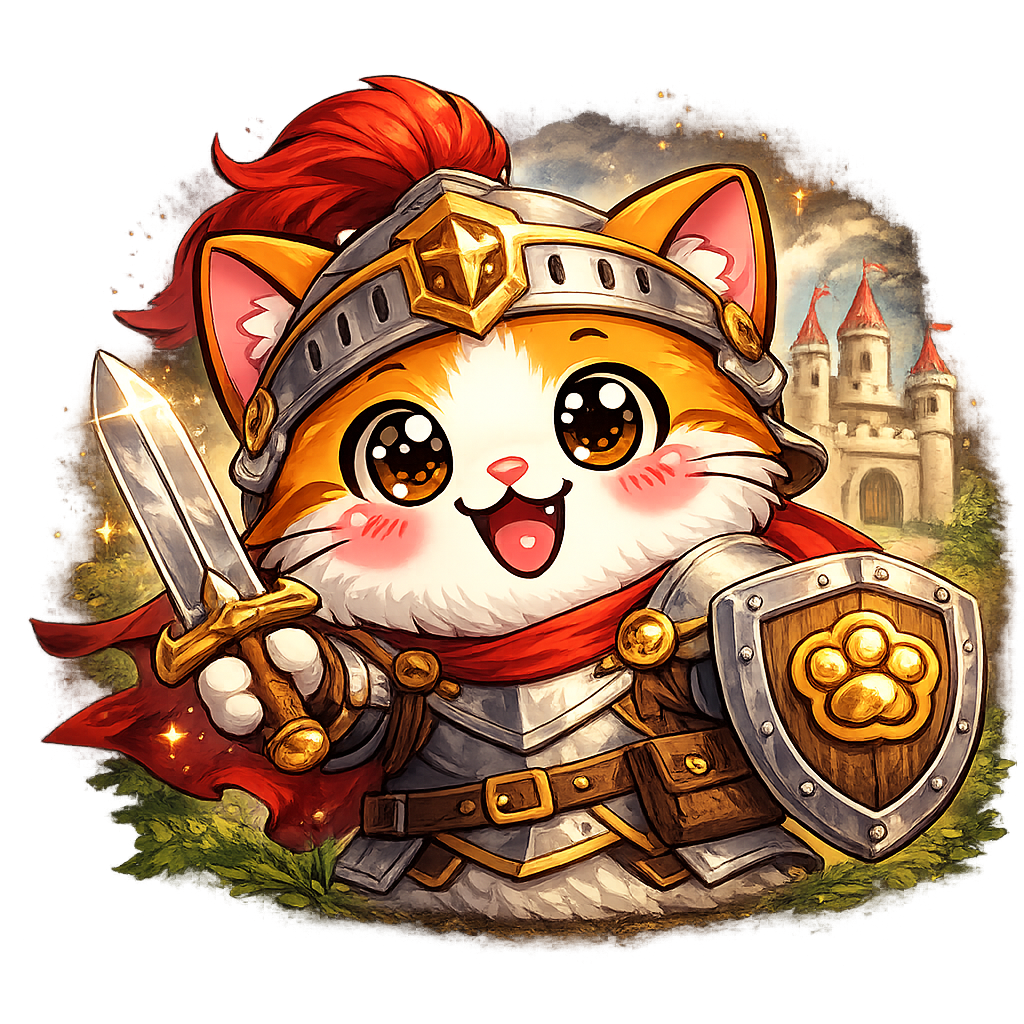
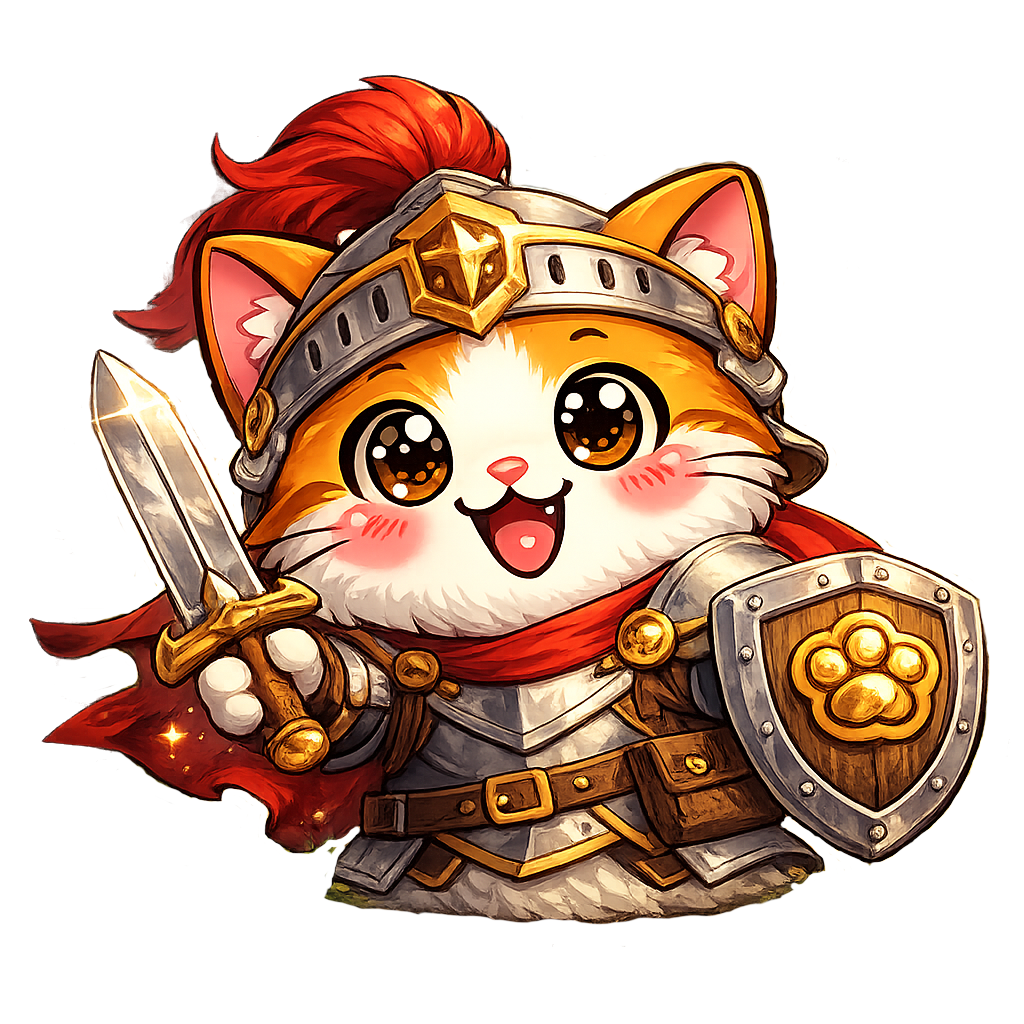
Update locked shop visuals and apply latest tower image

diff --git a/js/game.js b/js/game.js
@@ -433,6 +433,19 @@ function renderBuildings() {
     const afford = G.cookies >= cost;
     const cps    = b.baseCps * G.bld[i].mult;
     const totalC = cps * qty;
+    const shownName = unlocked ? b.name : '???';
+    const shownDesc = unlocked ? b.desc : 'Objet inconnu';
+    const shownStat = unlocked ? (qty > 0 ? fmtDec(totalC) + ' 🐾/sec total' : 'Aucun pour l\'instant') : 'Débloquez l\'objet précédent';
+    const tipHtml = unlocked
+      ? `
+        <div class="bld-tip">
+          <div class="bld-tip-name">${b.name}</div>
+          ${b.desc}<br>
+          <span style="color:var(--highlight)">Produit : ${fmtDec(cps)} 🐾/sec chacun</span><br>
+          <span style="color:var(--highlight)">Coût x${selectedBuyAmount} : ${fmt(cost)} 🐾</span>
+        </div>
+      `
+      : '';
 
     const div = document.createElement('div');
     div.className = 'bld-item ' + (!unlocked ? 'bld-locked' : (afford ? 'bld-affordable' : 'bld-unaffordable'));
@@ -441,9 +454,9 @@ function renderBuildings() {
     div.innerHTML = `
       <div class="bld-icon">${b.icon}</div>
       <div class="bld-info">
-        <div class="bld-name">${b.name}</div>
-        <div class="bld-desc">${b.desc}</div>
-        <div class="bld-stat">${qty > 0 ? fmtDec(totalC) + ' 🐾/sec total' : 'Aucun pour l\'instant'}</div>
+        <div class="bld-name">${shownName}</div>
+        <div class="bld-desc">${shownDesc}</div>
+        <div class="bld-stat">${shownStat}</div>
       </div>
       <div class="bld-right">
         <div class="bld-qty">${qty}</div>
@@ -451,12 +464,7 @@ function renderBuildings() {
           x${selectedBuyAmount} ${fmt(cost)} 🐾
         </div>
       </div>
-      <div class="bld-tip">
-        <div class="bld-tip-name">${b.name}</div>
-        ${b.desc}<br>
-        <span style="color:var(--highlight)">Produit : ${fmtDec(cps)} 🐾/sec chacun</span><br>
-        <span style="color:var(--highlight)">Coût x${selectedBuyAmount} : ${fmt(cost)} 🐾</span>
-      </div>
+      ${tipHtml}
     `;
 
     // Always attach — the handler checks affordability itself
@@ -902,14 +910,17 @@ function renderGameToText() {
     .map((upg, idx) => ({ upg, idx }))
     .filter(({ idx }) => G.upg[idx]?.bought)
     .map(({ upg }) => upg.name);
-  const visibleBuildings = BUILDINGS.map((b, id) => ({
-    id: b.id,
-    name: b.name,
-    qty: G.bld[id]?.qty || 0,
-    unlocked: isBuildingUnlocked(id),
-    cost: bldCost(id),
-    affordable: (G.cookies >= bldCost(id)) && isBuildingUnlocked(id),
-  }));
+  const visibleBuildings = BUILDINGS.map((b, id) => {
+    const unlocked = isBuildingUnlocked(id);
+    return {
+      id: b.id,
+      name: unlocked ? b.name : '???',
+      qty: G.bld[id]?.qty || 0,
+      unlocked,
+      cost: bldCost(id),
+      affordable: (G.cookies >= bldCost(id)) && unlocked,
+    };
+  });
 
   return JSON.stringify({
     coordinate_system: 'UI layout only (no canvas): left=chat panel, center=owned items, right=bonuses (top) + shop (bottom).',

diff --git a/css/main.css b/css/main.css
@@ -493,20 +493,26 @@
     .bld-item.bld-locked {
       opacity: 1;
       cursor: not-allowed;
-      filter: grayscale(1) saturate(0.08) brightness(0.58) contrast(0.72) blur(1.4px);
+      background: linear-gradient(90deg, rgba(12, 20, 34, 0.52), rgba(12, 20, 34, 0.25));
     }
-    .bld-item.bld-locked .bld-name,
+    .bld-item.bld-locked .bld-name {
+      color: #d8dfeb !important;
+      text-transform: uppercase;
+      letter-spacing: 0.06em;
+    }
     .bld-item.bld-locked .bld-desc,
-    .bld-item.bld-locked .bld-stat,
-    .bld-item.bld-locked .bld-cost,
-    .bld-item.bld-locked .bld-qty {
-      color: transparent !important;
-      text-shadow: 0 0 9px rgba(233, 244, 255, 0.48);
+    .bld-item.bld-locked .bld-stat {
+      color: #9aa7bc !important;
+      text-shadow: none;
+    }
+    .bld-item.bld-locked .bld-qty,
+    .bld-item.bld-locked .bld-cost {
+      color: #b3bfd3 !important;
     }
     .bld-item.bld-locked .bld-icon {
-      color: rgba(230, 241, 255, 0.58);
-      filter: grayscale(1) brightness(0.9);
-      text-shadow: 0 0 7px rgba(180, 210, 246, 0.34);
+      filter: grayscale(1) brightness(0) contrast(1.45);
+      opacity: 0.95;
+      text-shadow: none;
     }
 
     .bld-icon {

diff --git a/progress.md b/progress.md
@@ -121,3 +121,18 @@ Original prompt: J'aimerais que tu modifies l'interface et que tu t'inspires exa
 - Correction demandée sur la proportionnalité des achats bulk:
   - `x10` et `x100` sont désormais strictement proportionnels à `x1` (coût linéaire).
   - Validation locale: `c1=15`, `c10=150`, `c100=1500`, ratios 10 et 100 exacts.
+- Ajustement boutique demandé (Mars 2026): style lock type Cookie Clicker renforcé.
+  - `renderBuildings()` affiche désormais, pour les objets verrouillés:
+    - nom `???`,
+    - description `Objet inconnu`,
+    - statut `Débloquez l'objet précédent`,
+    - tooltip complètement désactivé.
+  - Visuel lock revu dans `css/main.css`:
+    - suppression de l'ancien effet flou,
+    - silhouette noire nette de l'icône (`filter: grayscale + brightness(0)`),
+    - texte lock lisible et cohérent avec `???`.
+  - `render_game_to_text()` aligné: les bâtiments verrouillés sont exposés avec `name: "???"`.
+- Validation:
+  - Vérification visuelle Playwright MCP sur `http://127.0.0.1:8000`: `???` et silhouettes noires visibles en boutique sur les items lockés.
+  - Screenshot de vérification généré via MCP (temp path Playwright).
+  - Run du client skill `web_game_playwright_client.js` effectué; même limitation déjà connue sur le clic `#cat-btn` (élément animé non stable), mais état/screenshot produits (`output/web-game/state-0.json`, `output/web-game/shot-0.png`).
